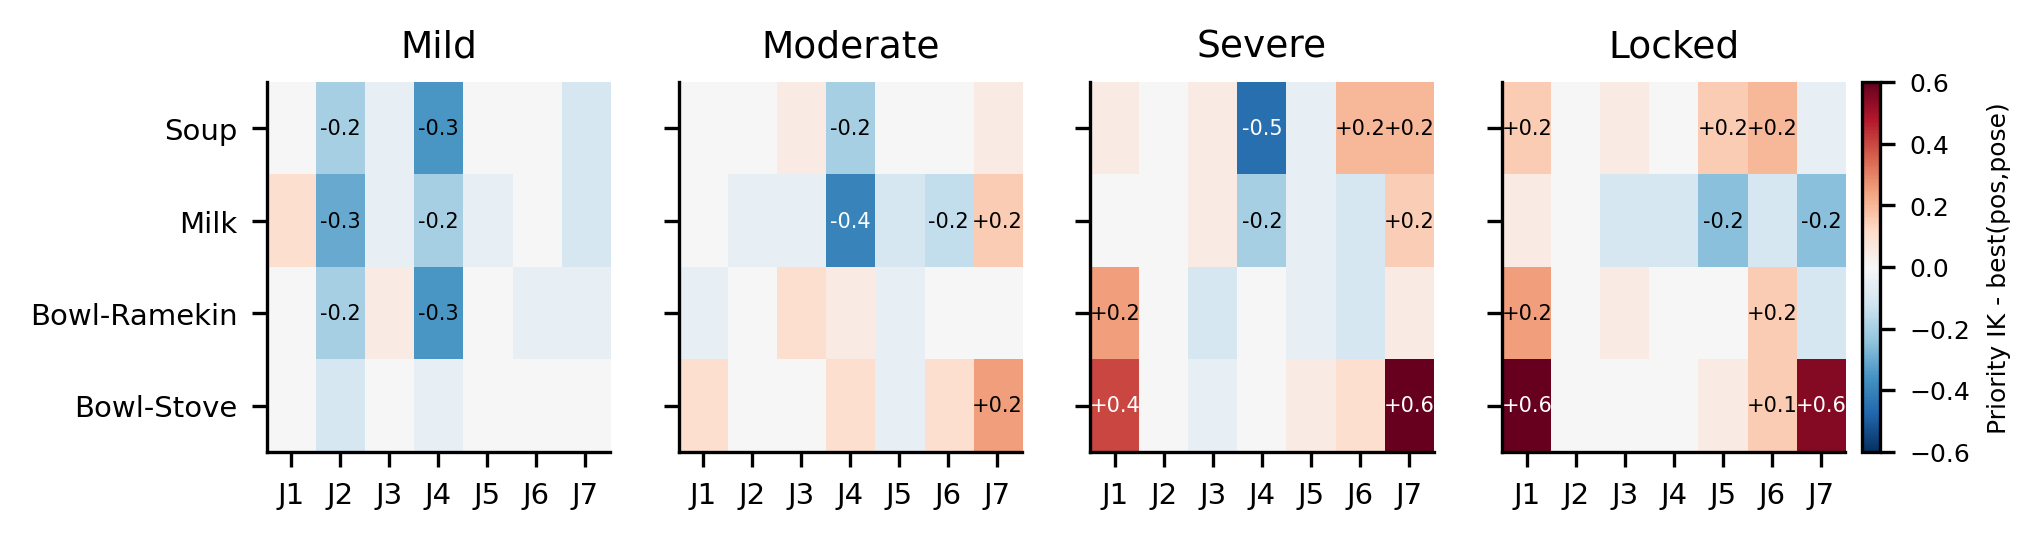
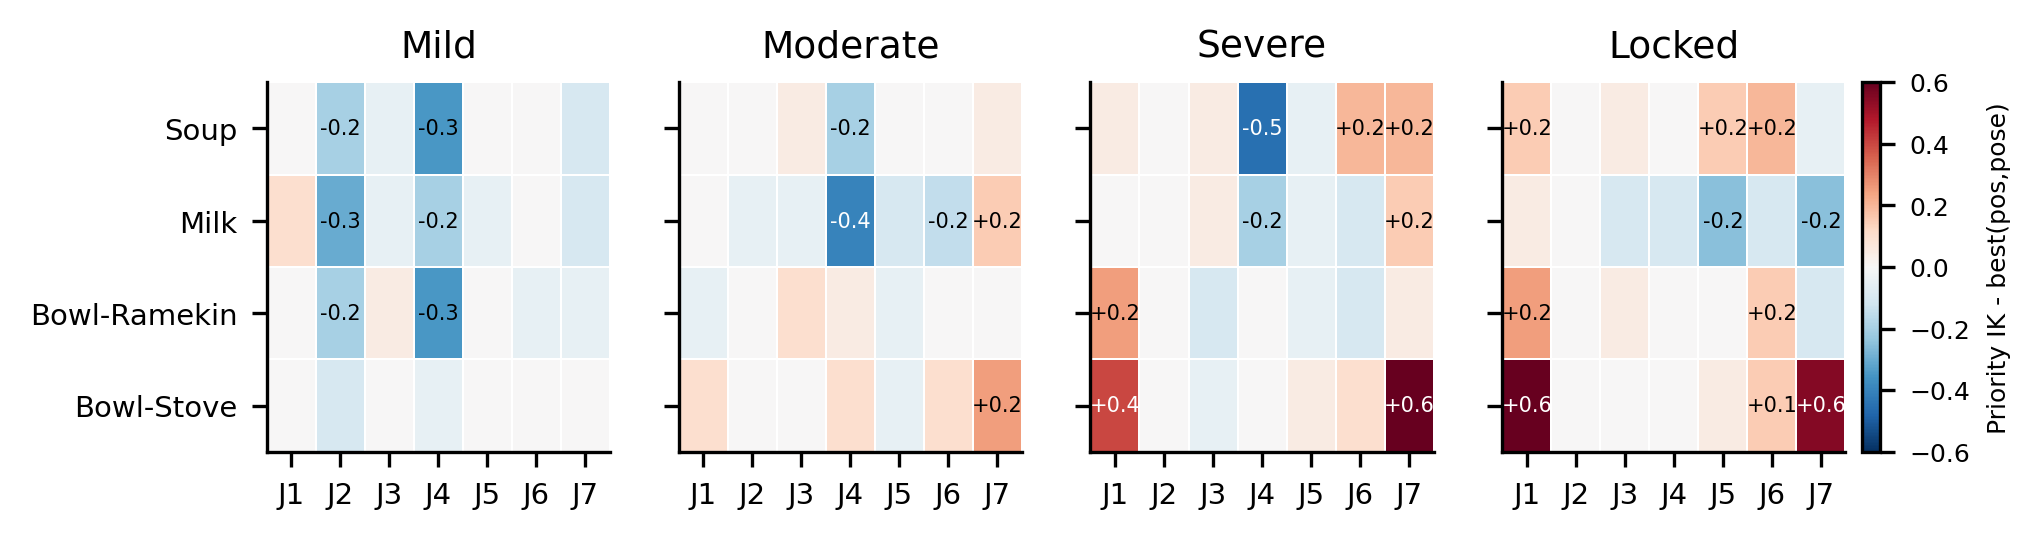
Paper figures: vector heatmap, publish only complete sweeps
- fig_prio_minus_best_heatmap: pcolormesh (vector cells) instead of imshow;
  the raster version was resampled into diagonal stripes by PDF viewers
- misspecification figure/table only when all 20 conditions of a variant
  are done; n=50 table only for conditions where every method finished
- paper/ regenerated from scratch (removes outputs built on partial sweeps)

Claude-Session: https://claude.ai/code/session_01Fi9app3eCXhwdWun5qG4HU

diff --git a/scripts_paper/make_paper_figures.py b/scripts_paper/make_paper_figures.py
@@ -44,8 +44,8 @@ MS = {  # robustness to misspecified fault knowledge (Priority IK)
     "lop010": ("lock +0.1 rad", "locked", "locked", "libero_fault_sweep_locked_ms_lop010"),
     "lom010": ("lock $-$0.1 rad", "locked", "locked", "libero_fault_sweep_locked_ms_lom010"),
 }
-N50_METHODS = ["b1", "eci", "ik", "ik_pose", "prio"]
-N50_LABEL = {"b1": "B1", "eci": "E-C-I", "ik": "B-IK pos", "ik_pose": "B-IK pose", "prio": "Priority IK"}
+N50_METHODS = ["b1", "ik", "ik_pose", "prio"]
+N50_LABEL = {"b1": "B1", "ik": "B-IK pos", "ik_pose": "B-IK pose", "prio": "Priority IK"}
 
 plt.rcParams.update({"font.size": 8, "axes.titlesize": 9, "axes.labelsize": 8, "legend.fontsize": 7,
                      "xtick.labelsize": 7, "ytick.labelsize": 7, "pdf.fonttype": 42, "ps.fonttype": 42,
@@ -286,7 +286,9 @@ def main():
                     P, B = data.get((level, t, j, "prio")), best_of(data, level, t, j)
                     if P and B:
                         M[ti, j - 1] = P["score"] - B["score"]
-            im = ax.imshow(M, cmap="RdBu_r", vmin=-0.6, vmax=0.6, aspect="auto")
+            im = ax.pcolormesh(np.arange(8) - 0.5, np.arange(len(TASKS) + 1) - 0.5, np.ma.masked_invalid(M),
+                               cmap="RdBu_r", vmin=-0.6, vmax=0.6, edgecolors="white", linewidth=0.4)
+            ax.set_xlim(-0.5, 6.5); ax.set_ylim(len(TASKS) - 0.5, -0.5)
             ax.set_title(level.capitalize()); ax.set_xticks(range(7)); ax.set_xticklabels([f"J{j}" for j in JOINTS])
             ax.set_yticks(range(len(TASKS))); ax.set_yticklabels([TASK_LABEL[t] for t in TASKS])
             for (r, c), v in np.ndenumerate(M):
@@ -326,7 +328,9 @@ def main():
                 n += 1; ms_s.append(Q["score"]); ex_s.append(P["score"])
                 if Q["pe"] and P["pe"]:
                     bb, cc = paired(Q["pe"], P["pe"]); b += bb; c += cc
-        if n:
+        if n and n < 20:
+            print(f"  misspec {tag}: {n}/20 conditions done -> skipped until complete")
+        if n == 20:
             rrows.append([lab, level, n, f"{np.mean(ex_s):.2f}", f"{np.mean(ms_s):.2f}",
                           f"{np.mean(ms_s) - np.mean(ex_s):+.2f}", f"{b}:{c} ({fmt_p(mcnemar(b, c))})"])
             bars.append((f"{lab}\n({n} cond.)", np.mean(ex_s), np.mean(ms_s)))
@@ -351,6 +355,8 @@ def main():
         nrows = []
         for t, j in conds:
             rec = {m: load(os.path.join(d50, f"{t}_robot0_joint{j}_locked_{m}_n50.json")) for m in N50_METHODS}
+            if any(rec[m] is None for m in ["b1", "ik", "ik_pose", "prio"]):
+                continue
             row = [f"{TASK_LABEL.get(t, t)} J{j}"]
             for m in N50_METHODS:
                 row.append(f"{rec[m]['score']:.2f}" if rec[m] else "--")
